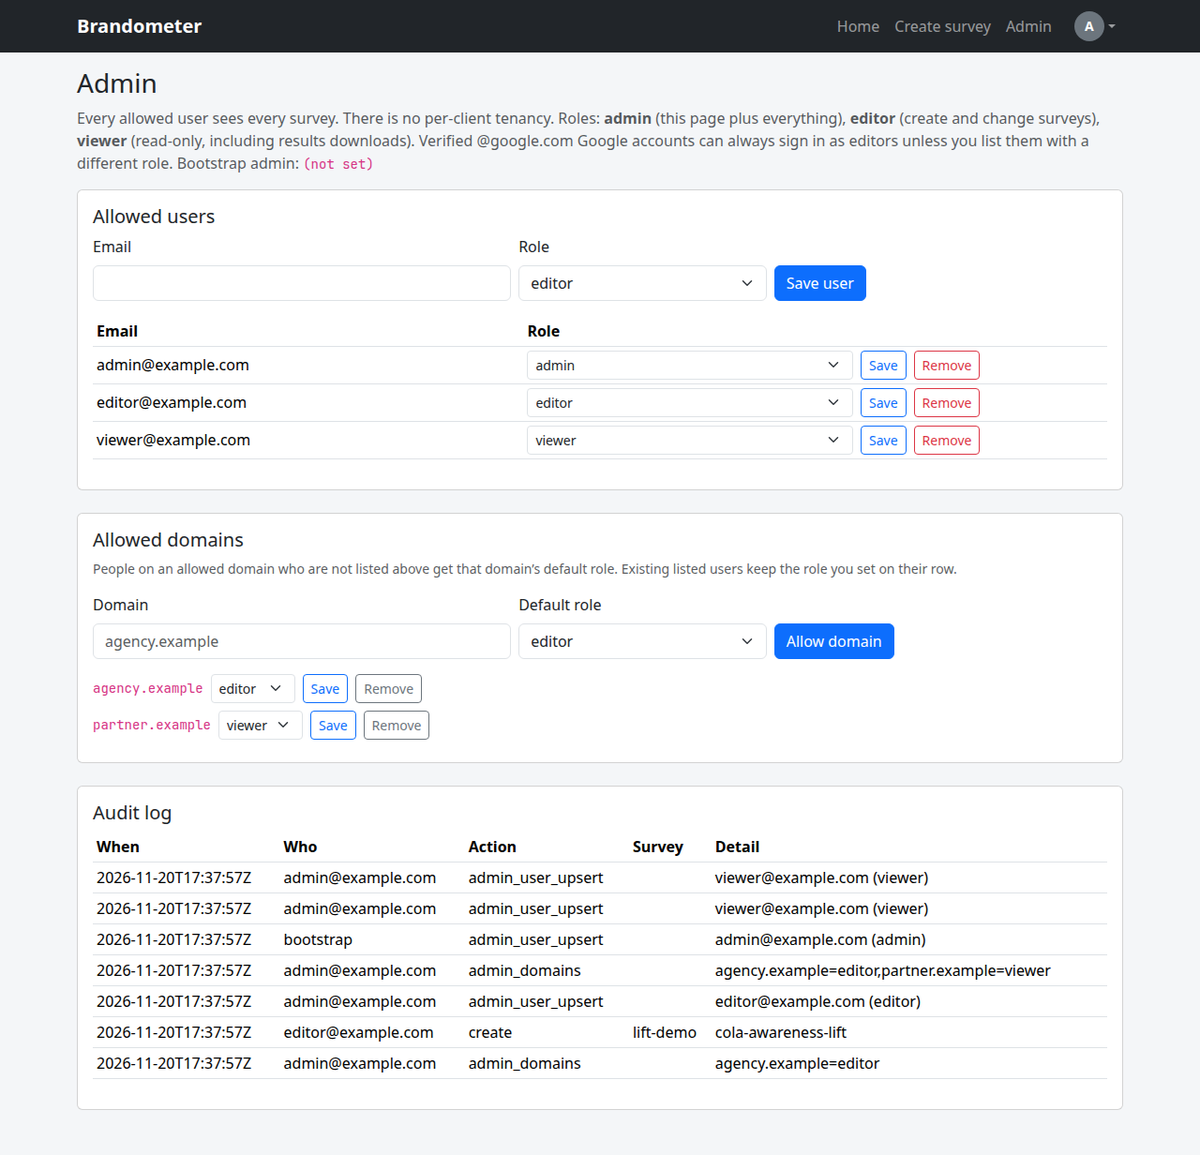
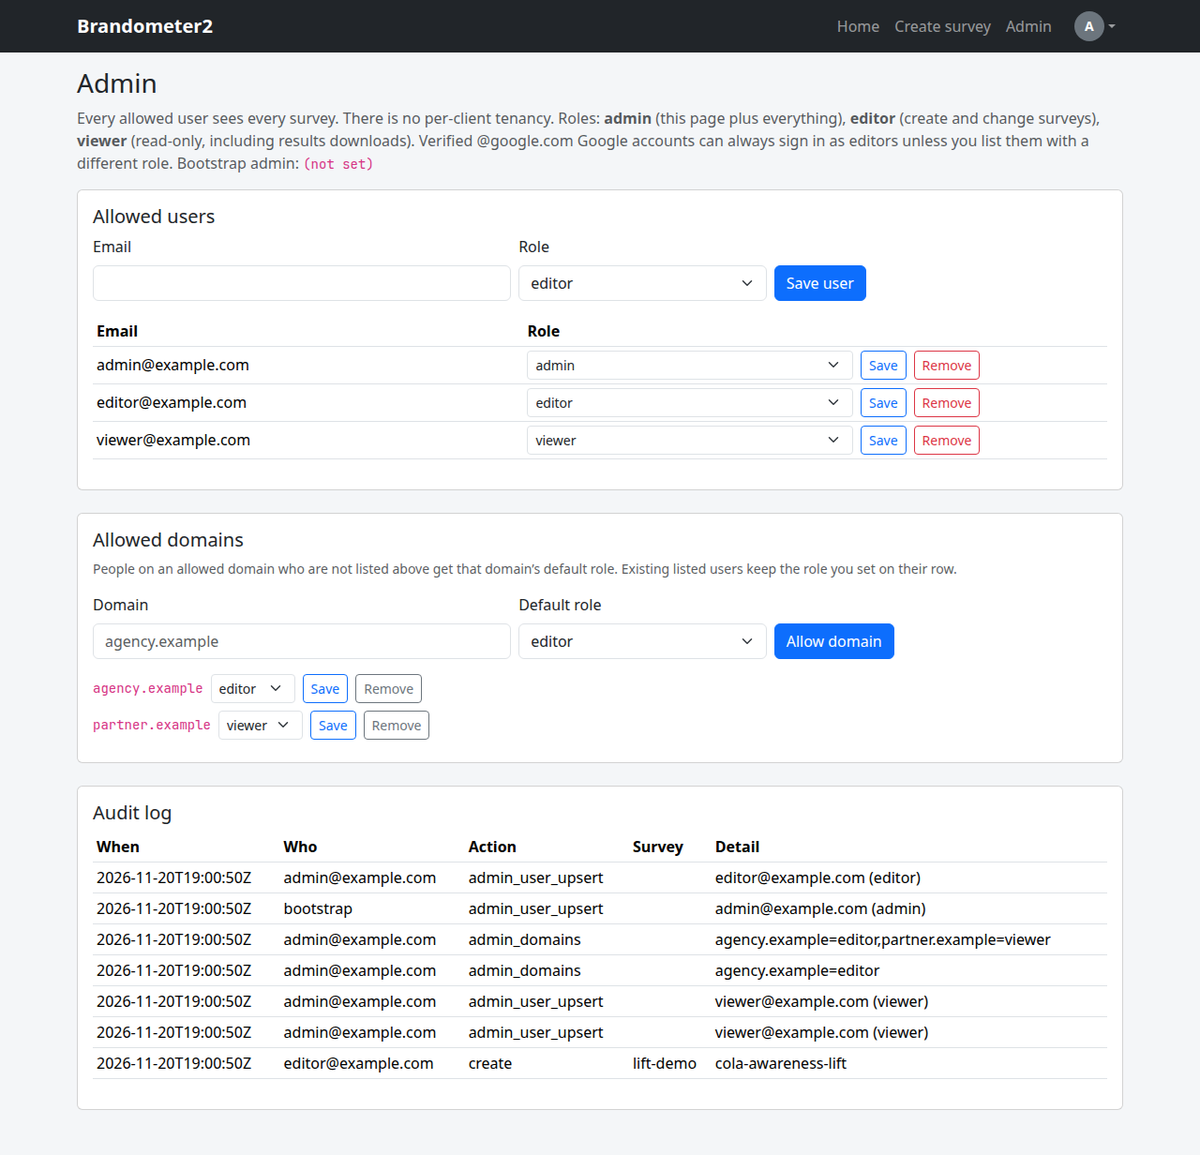
Default APP_BRAND_NAME to Brandometer2
Navbar, page titles, login, and the disclosure-badge tooltip now use
Brandometer2 unless APP_BRAND_NAME is set. Recapture README screenshots.

diff --git a/creative/app/templates/creative.html b/creative/app/templates/creative.html
@@ -893,8 +893,8 @@
         </div>
         <button type="button" id="brand_badge"
                 class="brand-badge badge-kind-{{ badge_kind|default('letter') }} badge-icon-{{ badge_icon|default('B') }}"
-                title="{{ badge_tooltip|default('Survey Type Brandometer Ad - powered by Google') }}"
-                aria-label="{{ badge_tooltip|default('Survey Type Brandometer Ad - powered by Google') }}"
+                title="{{ badge_tooltip|default('Survey Type Brandometer2 Ad - powered by Google') }}"
+                aria-label="{{ badge_tooltip|default('Survey Type Brandometer2 Ad - powered by Google') }}"
                 onclick="event.preventDefault(); event.stopPropagation(); this.classList.toggle('is-open'); return false;">
             {% if badge_svg %}
             {{ badge_svg }}
@@ -913,7 +913,7 @@
             {% else %}
             <span class="brand-badge-face">{{ badge_mark|default(badge_icon)|default('B') }}</span>
             {% endif %}
-            <span class="brand-badge-tip">{{ badge_tooltip|default('Survey Type Brandometer Ad - powered by Google') }}</span>
+            <span class="brand-badge-tip">{{ badge_tooltip|default('Survey Type Brandometer2 Ad - powered by Google') }}</span>
         </button>
     </div>
     {% if show_back_button %}

diff --git a/creative/app/templates/base.html b/creative/app/templates/base.html
@@ -3,7 +3,7 @@
 <head>
   <meta charset="utf-8">
   <meta name="viewport" content="width=device-width, initial-scale=1">
-  <title>{% if title %}{{ title }}{% else %}{{ brand_name|default('Brandometer') }}{% endif %}</title>
+  <title>{% if title %}{{ title }}{% else %}{{ brand_name|default('Brandometer2') }}{% endif %}</title>
   <link rel="icon" href="{{ url_for('static', filename='favicon.svg') }}" type="image/svg+xml">
   <link rel="icon" href="{{ url_for('static', filename='favicon.ico') }}" sizes="16x16 32x32 48x48">
   <link rel="apple-touch-icon" href="{{ url_for('static', filename='apple-touch-icon.png') }}" sizes="180x180">
@@ -46,7 +46,7 @@
 <body>
 <nav class="navbar navbar-expand-lg navbar-dark bg-dark">
   <div class="container">
-    <a class="navbar-brand" href="{{ url_for('index') }}">{{ brand_name|default('Brandometer') }}</a>
+    <a class="navbar-brand" href="{{ url_for('index') }}">{{ brand_name|default('Brandometer2') }}</a>
     <button class="navbar-toggler" type="button" data-bs-toggle="collapse" data-bs-target="#navbarMain" aria-controls="navbarMain" aria-expanded="false" aria-label="Toggle navigation">
       <span class="navbar-toggler-icon"></span>
     </button>

diff --git a/creative/app/templates/login.html b/creative/app/templates/login.html
@@ -3,7 +3,7 @@
 <head>
   <meta charset="utf-8">
   <meta name="viewport" content="width=device-width, initial-scale=1">
-  <title>Sign in · {{ brand_name|default('Brandometer') }}</title>
+  <title>Sign in · {{ brand_name|default('Brandometer2') }}</title>
   <link rel="icon" href="{{ url_for('static', filename='favicon.svg') }}" type="image/svg+xml">
   <link rel="icon" href="{{ url_for('static', filename='favicon.ico') }}" sizes="16x16 32x32 48x48">
   <link rel="apple-touch-icon" href="{{ url_for('static', filename='apple-touch-icon.png') }}" sizes="180x180">
@@ -11,7 +11,7 @@
 </head>
 <body class="bg-light">
   <div class="container py-5" style="max-width: 28rem;">
-    <h1 class="h3 mb-3">{{ brand_name|default('Brandometer') }}</h1>
+    <h1 class="h3 mb-3">{{ brand_name|default('Brandometer2') }}</h1>
     <p class="text-muted">Sign in with your Google account. @google.com accounts are allowed as editors. Everyone else must be on the allowlist or an allowed domain.</p>
     {% with messages = get_flashed_messages(with_categories=true) %}
     {% if messages %}

diff --git a/creative/app/static/survey-editor.js b/creative/app/static/survey-editor.js
@@ -237,7 +237,7 @@
         var typed = String(fieldValue('badge_text') || '').trim();
         if (typed) return typed.slice(0, 120);
         return (boot.badgeTextDefault || (boot.brand && boot.brand.tooltip) ||
-          'Survey Type Brandometer Ad - powered by Google');
+          'Survey Type Brandometer2 Ad - powered by Google');
       },
 
       badgeMarkup: function () {

diff --git a/creative/app/test/test_phase6.py b/creative/app/test/test_phase6.py
@@ -119,7 +119,7 @@ class ZipAndHtmlTest(unittest.TestCase):
       else:
         self.assertIn('width=300,height=250', html)
       self.assertIn('brand-badge', html)
-      self.assertIn('Survey Type Brandometer Ad - powered by Google', html)
+      self.assertIn('Survey Type Brandometer2 Ad - powered by Google', html)
       self.assertIn('option_container_7', html)
       self.assertIn('SONAR_LAYOUT_START', html)
       self.assertLess(len(inner_bytes), 5 * 1024 * 1024)
@@ -192,9 +192,9 @@ class PresetAndBrandTest(unittest.TestCase):
     with mock.patch.dict(os.environ, {}, clear=False):
       os.environ.pop('APP_BRAND_NAME', None)
       os.environ.pop('APP_BRAND_BADGE_LETTER', None)
-      self.assertEqual(brand.brand_name(), 'Brandometer')
+      self.assertEqual(brand.brand_name(), 'Brandometer2')
       self.assertEqual(brand.badge_letter(), 'B')
-      self.assertIn('Brandometer', brand.badge_tooltip())
+      self.assertIn('Brandometer2', brand.badge_tooltip())
     with mock.patch.dict(os.environ, {
         'APP_BRAND_NAME': 'AcmeAds',
         'APP_BRAND_BADGE_LETTER': 'Q',
@@ -209,7 +209,7 @@ class PresetAndBrandTest(unittest.TestCase):
         survey_service, 'identity_suggestions',
         return_value={'clients': [], 'agencies': []}):
       response = client.get('/survey/create')
-    self.assertIn(b'Brandometer', response.data)
+    self.assertIn(b'>Brandometer2</a>', response.data)
     self.assertIn(b'Sign out', response.data)
     self.assertIn(b'local-dev', response.data)
     self.assertIn(b'Admin', response.data)
@@ -239,7 +239,7 @@ class DisclosureBadgeTest(unittest.TestCase):
     self.assertEqual(spec['id'], 'B')
     self.assertEqual(spec['kind'], 'letter')
     self.assertEqual(spec['mark'], 'B')
-    self.assertEqual(spec['tooltip'], 'Survey Type Brandometer Ad - powered by Google')
+    self.assertEqual(spec['tooltip'], 'Survey Type Brandometer2 Ad - powered by Google')
     self.assertEqual(brand.persist_badge({})['badge_icon'], 'B')
     self.assertEqual(brand.persist_badge({'badge_text': '  '})['badge_text'], '')
 
@@ -304,13 +304,13 @@ class DisclosureBadgeTest(unittest.TestCase):
       }, '')
     self.assertIn('viewBox="0 0 20 20"', html)
     self.assertIn('>B</text>', html)
-    self.assertIn('Survey Type Brandometer Ad - powered by Google', html)
+    self.assertIn('Survey Type Brandometer2 Ad - powered by Google', html)
     self.assertIn('badge-kind-letter', html)
 
   def test_blank_text_uses_brand_default(self):
     spec = brand.badge_for_survey({'badge_icon': 'B2', 'badge_text': ''})
     self.assertEqual(spec['id'], 'B2')
-    self.assertEqual(spec['tooltip'], 'Survey Type Brandometer Ad - powered by Google')
+    self.assertEqual(spec['tooltip'], 'Survey Type Brandometer2 Ad - powered by Google')
 
   def test_version_snapshot_keeps_badge_fields(self):
     from mockfirestore import MockFirestore

diff --git a/tools/capture_screenshots.py b/tools/capture_screenshots.py
@@ -35,7 +35,7 @@ def _prepare_env() -> None:
   os.environ.setdefault('TABLE_ID', 'brandometer-docs.responses.responses')
   os.environ.setdefault('SECRET_KEY', 'docs-screenshots-not-a-secret')
   os.environ.setdefault('STATS_CACHE_SECONDS', '0')
-  os.environ.setdefault('APP_BRAND_NAME', 'Brandometer')
+  os.environ.setdefault('APP_BRAND_NAME', 'Brandometer2')
   # Dummy values so Secret Manager is never called and /login shows Sign in.
   os.environ.setdefault(
       'GOOGLE_OAUTH_CLIENT_ID',
@@ -388,7 +388,7 @@ def run_browser(app, out: Path) -> None:
     page.goto(base + '/survey/reporting/lift-demo', wait_until='networkidle')
     page.wait_for_selector('#dailyChart')
     page.wait_for_timeout(800)
-    capture(page, out / 'report-lift.png')
+    capture(page, out / 'report-lift.png', full_page=False)
 
     page.goto(base + '/admin', wait_until='networkidle')
     page.wait_for_selector('table')

diff --git a/creative/app/test/test_auth.py b/creative/app/test/test_auth.py
@@ -53,6 +53,8 @@ class AuthAndRedirectTest(unittest.TestCase):
     response = client.get('/login')
     self.assertEqual(response.status_code, 200)
     self.assertIn(b'Sign in with your Google account', response.data)
+    self.assertIn(b'Brandometer2', response.data)
+    self.assertIn('Sign in · Brandometer2'.encode('utf-8'), response.data)
     self.assertIn(b'DISABLE_BASIC_AUTH=1', response.data)
     self.assertIn(b'rel="icon"', response.data)
     self.assertIn(b'favicon.svg', response.data)

diff --git a/creative/app/main.py b/creative/app/main.py
@@ -48,7 +48,7 @@ import survey_collection
 import survey_service
 from forms import RESPONSES_AT_END
 
-# Project setup. Overridden per request by APP_BRAND_NAME (default Brandometer).
+# Project setup. Overridden per request by APP_BRAND_NAME (default Brandometer2).
 title = brand.DEFAULT_BRAND_NAME
 app = Flask(__name__)
 app_security.configure_app(app)

diff --git a/creative/app/brand.py b/creative/app/brand.py
@@ -14,7 +14,7 @@
 """Product brand for the admin UI and the creative disclosure badge."""
 import os
 
-DEFAULT_BRAND_NAME = 'Brandometer'
+DEFAULT_BRAND_NAME = 'Brandometer2'
 DEFAULT_BADGE_ICON = 'B'
 BADGE_TEXT_MAX = 120
 

diff --git a/DEVELOPERS.md b/DEVELOPERS.md
@@ -1,6 +1,6 @@
-# Brandometer developer guide
+# Brandometer2 developer guide
 
-Brandometer2 is a Flask + Google Cloud app (App Engine, Firestore, BigQuery, Cloud Functions) for building brand-lift / brand-track survey creatives. It started as a fork of Google Brandometer (Apache-2.0). The in-app product name is `APP_BRAND_NAME` (default **Brandometer**). Use only the Brandometer2 name in docs and UI; do not reference the previous fork's name. Theme blocks stored in `custom_css` keep their historical comment sentinels (`SONAR_THEME_*`, `SONAR_SIZE_*`, `SONAR_LAYOUT_*`) and `--sonar-*` CSS variables so existing surveys still parse — do not rename those identifiers.
+Brandometer2 is a Flask + Google Cloud app (App Engine, Firestore, BigQuery, Cloud Functions) for building brand-lift / brand-track survey creatives. It started as a fork of Google Brandometer (Apache-2.0). The in-app product name is `APP_BRAND_NAME` (default **Brandometer2**). Use only the Brandometer2 name in docs and UI; do not reference the previous fork's name. Theme blocks stored in `custom_css` keep their historical comment sentinels (`SONAR_THEME_*`, `SONAR_SIZE_*`, `SONAR_LAYOUT_*`) and `--sonar-*` CSS variables so existing surveys still parse — do not rename those identifiers.
 
 **Docs stay in the same commit.** Every change must update `README.md` in that commit. Update this file too when the change is operator- or developer-facing (deploy, IAM, local run, tests, secrets, architecture). See `AGENTS.md`.
 
@@ -243,7 +243,7 @@ The admin UI is self-hosted Bootstrap 5.3.3, Bootstrap Icons 1.11.3, htmx 1.9.12
 
 **Ad badge.** Every creative and the preview has a bottom-left disclosure badge. Default icon is the bevelled **B** (first letter of `APP_BRAND_NAME`, overridable with `APP_BRAND_BADGE_LETTER`). Per-survey **Disclosure badge** on create/edit picks **B**, **B2**, **Ad**, or **Dentsu** (plain-text wordmark in the same bevelled pill; not Dentsu’s official logo). Stored as `badge_icon` / `badge_text`. Blank or missing fields behave as the default tooltip `Survey Type {brand} Ad - powered by Google` (`APP_BRAND_BADGE_TOOLTIP` to override the default string). Popup text is max 120 characters and HTML-escaped. Hover / focus / tap still show the tooltip; it does not fire clickTag. Copy and zip version snapshots keep the fields. Add more faces in `brand.BADGE_ICONS` (reserved `svg` for an uploaded logo).
 
-**Brand.** `export APP_BRAND_NAME=Brandometer` (that is the default). Navbar, page titles, and the badge letter/tooltip use it.
+**Brand.** `export APP_BRAND_NAME=Brandometer2` (that is the default). Navbar, page titles, login, and the badge letter/tooltip use it. Tag sheets and response CSVs do not embed the product name (survey name only). There is no branded email.
 
 **Favicon.** Rounded-square Bootstrap primary (`#0d6efd`) with white **Bv2** (`creative/app/static/favicon.svg`). Raster sizes (16/32/48 ICO, 180 apple-touch) are generated with `python3 tools/generate_favicons.py` and committed. App Engine serves `/favicon.ico` from `creative/app/favicon.ico`; `base.html` and `login.html` also link the SVG, ICO, and apple-touch icon. Browsers cache favicons aggressively — hard-refresh after a change.
 
@@ -483,11 +483,11 @@ Same start as Phase 3 (`DISABLE_BASIC_AUTH=1`, then from `creative/app`: `flask 
 
 Same start (`DISABLE_BASIC_AUTH=1`, `cd creative/app`, `flask --app main run --port 8080 --debug`). Web Preview → port 8080.
 
-1. Navbar says **Brandometer** (or `APP_BRAND_NAME`). Create survey: check **300×250** and **970×250**. Editor preview switcher appears; 970×250 is wide with answers in a grid. Check only **160×600** and **Add answer** through H. Checking 300×250 as well should drop F–H on save (validation).
+1. Navbar says **Brandometer2** (or `APP_BRAND_NAME`). Create survey: check **300×250** and **970×250**. Editor preview switcher appears; 970×250 is wide with answers in a grid. Check only **160×600** and **Add answer** through H. Checking 300×250 as well should drop F–H on save (validation).
 2. Homepage: that two-size survey has Sizes chips and a View split button. Pick **970×250** from the caret (`?size=970x250`). The preview page size switcher highlights 970×250. A one-size survey still has a plain View button and no preview switcher. Filter Size = 970×250 hides surveys that do not include it; combine with page 2 / Show archived.
 3. Theme preset dropdown: Classic green first; groups Classic / Loud solids / Complementary / Patterns. Hazard stripes should show a striped background with readable answer panels.
 4. Download zip with two sizes: outer zip contains two inner zips; each inner has only `index.html`, `ad.size` matching that size, a **B** badge bottom-left. Hover/tap the badge for the tooltip. Inner filenames ≤ 50 chars.
-5. **Disclosure badge.** Create survey: Icon picker shows B / B2 / Ad / Dentsu. Default B looks like the current bevelled letter. Pick **Dentsu** and 160×600 — the wordmark is a small pill, not overlapping answers. Change popup text; preview updates immediately. **Use default** restores the `Survey Type Brandometer Ad - powered by Google` string. Leave text blank and save — creative still uses that default. Copy the survey; badge choices come along.
+5. **Disclosure badge.** Create survey: Icon picker shows B / B2 / Ad / Dentsu. Default B looks like the current bevelled letter. Pick **Dentsu** and 160×600 — the wordmark is a small pill, not overlapping answers. Change popup text; preview updates immediately. **Use default** restores the `Survey Type Brandometer2 Ad - powered by Google` string. Leave text blank and save — creative still uses that default. Copy the survey; badge choices come along.
 6. Homepage speed: the survey table should appear immediately with **Loading…** in count/last/status; those cells fill in after `/index/stats-partial` (check Network: `/index` returns before the stats request). Flask debug log lines `index.request_ms` (bq=deferred) and `stats.bq_ms`.
 7. Trafficking: in CM360, **Upload HTML5** (batch) the inner zips, one placement per size. Assign Brand Lift control/expose creatives to the matching audience ads. Do not upload the outer zip as a creative. Match placement dimensions to 300×250 / 160×600 / 300×600 / 336×280 / 970×250. Preview still does not post to BigQuery.
 
@@ -526,11 +526,11 @@ Do this once per GCP project (or when the OAuth client / bootstrap admin changes
 1. In [Google Cloud Console](https://console.cloud.google.com/) open the target project.
 2. **APIs & Services → OAuth consent screen**
    1. User type: **Internal** if this is a Google Workspace project; otherwise **External** (add yourself as a test user while the app is in Testing).
-   2. App name: `Brandometer`. Support email: your address.
+   2. App name: `Brandometer2`. Support email: your address.
    3. Scopes: `openid`, `.../auth/userinfo.email`, `.../auth/userinfo.profile` (Authlib requests `openid email profile`).
    4. Authorized domains: `appspot.com`. Optionally `cloudshell.dev` if you will try Sign-In from Cloud Shell Web Preview.
 3. **APIs & Services → Credentials → Create credentials → OAuth client ID**
-   1. Application type: **Web application**. Name: `Brandometer web`.
+   1. Application type: **Web application**. Name: `Brandometer2 web`.
    2. **Authorized JavaScript origins** (replace `PROJECT_ID`; us-central App Engine also uses `uc.r.appspot.com`):
       - `https://PROJECT_ID.appspot.com`
       - `https://PROJECT_ID.uc.r.appspot.com`

diff --git a/README.md b/README.md
@@ -4,7 +4,7 @@ N.B. This is not an officially supported Google product.
 
 Brandometer2 builds **brand-lift** and **brand-track** display surveys and hosts them on Google Cloud. Marketers create a survey in the app, download HTML5 zips, traffic them in Campaign Manager 360 / DV360, and read results in the app (or in BigQuery).
 
-It is a fork of [Google Brandometer](https://github.com/google/brandometer) (Apache-2.0). The in-app product name is `APP_BRAND_NAME` (default **Brandometer**). Developer detail lives in [DEVELOPERS.md](DEVELOPERS.md).
+It is a fork of [Google Brandometer](https://github.com/google/brandometer) (Apache-2.0). The in-app product name is `APP_BRAND_NAME` (default **Brandometer2**). Navbar, page titles, login, and the disclosure-badge tooltip use it. Override with `export APP_BRAND_NAME=…`. Developer detail lives in [DEVELOPERS.md](DEVELOPERS.md).
 
 Screenshots below use **seeded sample surveys** (Acme, Northwind, Contoso) and generic example emails. They are not production data. Regenerate them with `python3 tools/capture_screenshots.py` (see [Screenshots](#screenshots)).
 
@@ -228,7 +228,7 @@ Prerequisites: [Google Cloud SDK](https://cloud.google.com/sdk/) (`gcloud` and `
 ### OAuth client
 
 1. In the Cloud Console, open the project.
-2. **APIs & Services → OAuth consent screen.** Use **Internal** for a Google Workspace project; otherwise **External** and add yourself as a test user while the app is in Testing. App name `Brandometer`. Scopes: `openid`, userinfo email, userinfo profile. Authorized domain: `appspot.com`.
+2. **APIs & Services → OAuth consent screen.** Use **Internal** for a Google Workspace project; otherwise **External** and add yourself as a test user while the app is in Testing. App name `Brandometer2`. Scopes: `openid`, userinfo email, userinfo profile. Authorized domain: `appspot.com`.
 3. **Credentials → Create credentials → OAuth client ID → Web application.**
 
 Authorized JavaScript origins (replace `PROJECT_ID`; us-central App Engine also uses `uc.r.appspot.com`):
@@ -323,7 +323,7 @@ python3 -m playwright install chromium
 python3 tools/capture_screenshots.py
 ```
 
-The script sets `DISABLE_BASIC_AUTH=1` and dummy OAuth / HMAC values so Secret Manager is never called. Output is optimised PNG (UI capped at 1200px wide; creatives stay natural size).
+The script sets `DISABLE_BASIC_AUTH=1`, `APP_BRAND_NAME=Brandometer2`, and dummy OAuth / HMAC values so Secret Manager is never called. Output is optimised PNG (UI capped at 1200px wide; creatives stay natural size). Navbar, login, and titles in these shots show **Brandometer2**. The Brand Lift report shot is the viewport (breakout tables continue below).
 
 ## Querying results in BigQuery
 
